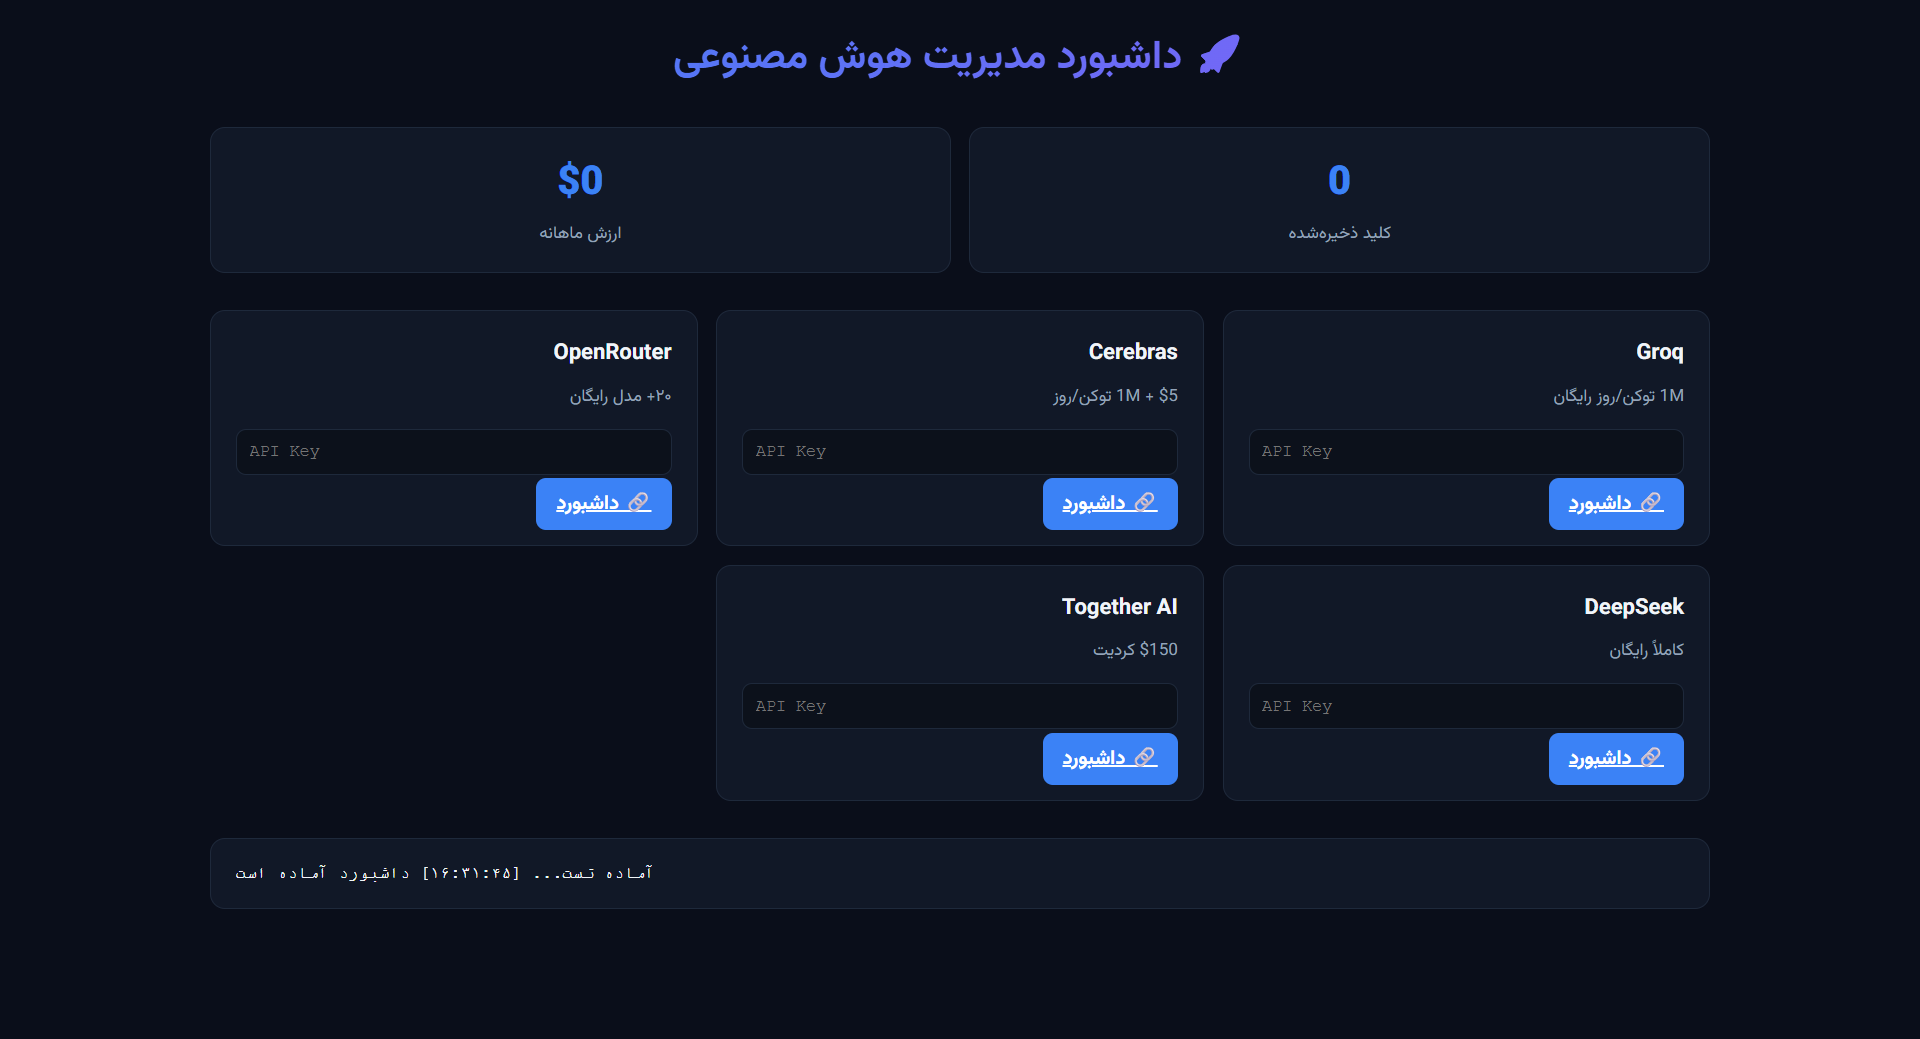
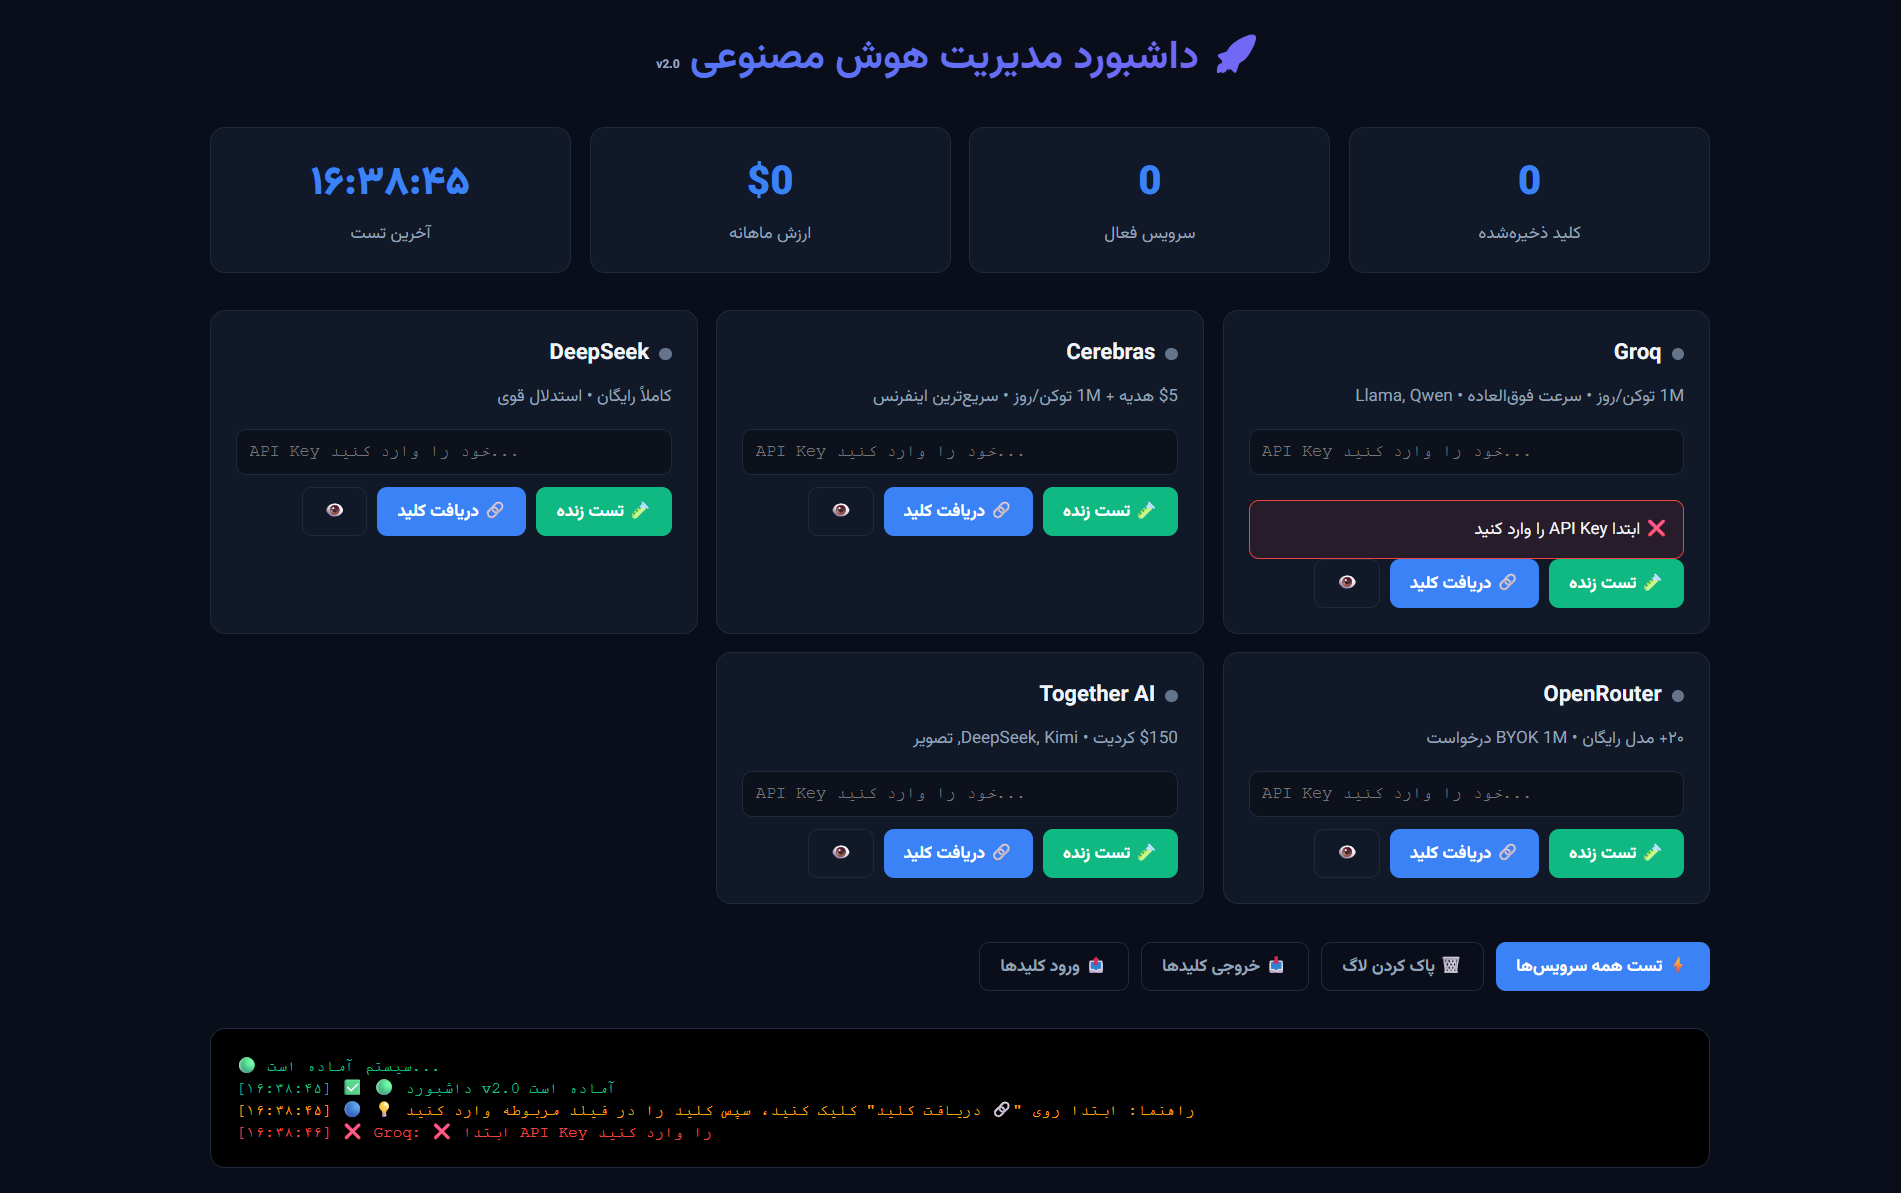
Update ai-dashboard to v2 with live API testing capability

diff --git a/ai-dashboard/dashboard.html b/ai-dashboard/dashboard.html
@@ -2,7 +2,7 @@
 <html lang="fa" dir="rtl">
 <head>
 <meta charset="UTF-8">
-<title>🚀 داشبورد AI</title>
+<title>🚀 داشبورد AI - نسخه 2</title>
 <style>
   @import url('https://fonts.googleapis.com/css2?family=Vazirmatn:wght@400;700;900&display=swap');
   * { margin: 0; padding: 0; box-sizing: border-box; }
@@ -13,19 +13,35 @@
   .stat { background: #111827; border: 1px solid #1e293b; border-radius: 12px; padding: 20px; text-align: center; }
   .stat-value { font-size: 2rem; font-weight: 900; color: #3b82f6; }
   .stat-label { color: #94a3b8; font-size: 0.85rem; margin-top: 5px; }
-  .services { display: grid; grid-template-columns: repeat(auto-fill, minmax(300px, 1fr)); gap: 15px; }
-  .service { background: #111827; border: 1px solid #1e293b; border-radius: 12px; padding: 20px; }
-  .service-name { font-weight: 700; font-size: 1.1rem; margin-bottom: 10px; }
+  .services { display: grid; grid-template-columns: repeat(auto-fill, minmax(320px, 1fr)); gap: 15px; }
+  .service { background: #111827; border: 1px solid #1e293b; border-radius: 12px; padding: 20px; position: relative; }
+  .service.active { border-color: #10b981; }
+  .service-name { font-weight: 700; font-size: 1.1rem; margin-bottom: 10px; display: flex; align-items: center; gap: 8px; }
+  .status-dot { width: 10px; height: 10px; border-radius: 50%; background: #64748b; }
+  .status-dot.active { background: #10b981; box-shadow: 0 0 8px #10b981; }
+  .status-dot.error { background: #ef4444; }
+  .status-dot.loading { background: #f59e0b; animation: pulse 1s infinite; }
+  @keyframes pulse { 0%,100% { opacity: 1; } 50% { opacity: 0.5; } }
   .service-info { color: #94a3b8; font-size: 0.85rem; margin-bottom: 15px; }
-  .key-input { width: 100%; background: rgba(0,0,0,0.3); border: 1px solid #1e293b; border-radius: 8px; padding: 10px; color: #f1f5f9; margin-bottom: 10px; font-family: monospace; direction: ltr; }
-  .btn { background: #3b82f6; color: white; border: none; padding: 8px 16px; border-radius: 8px; cursor: pointer; font-family: 'Vazirmatn'; font-weight: 600; }
+  .key-input { width: 100%; background: rgba(0,0,0,0.3); border: 1px solid #1e293b; border-radius: 8px; padding: 10px; color: #f1f5f9; margin-bottom: 10px; font-family: monospace; direction: ltr; text-align: left; }
+  .key-input:focus { outline: none; border-color: #3b82f6; }
+  .btn-row { display: flex; gap: 8px; flex-wrap: wrap; }
+  .btn { background: #3b82f6; color: white; border: none; padding: 8px 16px; border-radius: 8px; cursor: pointer; font-family: 'Vazirmatn'; font-weight: 600; font-size: 0.85rem; text-decoration: none; display: inline-flex; align-items: center; gap: 6px; }
   .btn:hover { background: #2563eb; }
-  .test-log { background: #111827; border: 1px solid #1e293b; border-radius: 12px; padding: 20px; margin-top: 30px; font-family: monospace; font-size: 0.85rem; max-height: 300px; overflow-y: auto; direction: ltr; text-align: left; }
+  .btn-success { background: #10b981; }
+  .btn-success:hover { background: #059669; }
+  .btn-outline { background: transparent; border: 1px solid #1e293b; color: #94a3b8; }
+  .btn-outline:hover { border-color: #3b82f6; color: #3b82f6; }
+  .test-log { background: #000; border: 1px solid #1e293b; border-radius: 12px; padding: 20px; margin-top: 30px; font-family: 'Courier New', monospace; font-size: 0.8rem; max-height: 400px; overflow-y: auto; direction: ltr; text-align: left; color: #10b981; }
+  .test-log .error { color: #ef4444; }
+  .test-log .info { color: #f59e0b; }
+  .test-result { background: rgba(16,185,129,0.1); border: 1px solid #10b981; border-radius: 8px; padding: 12px; margin-top: 10px; font-size: 0.85rem; }
+  .test-result.error { background: rgba(239,68,68,0.1); border-color: #ef4444; }
 </style>
 </head>
 <body>
 <div class="container">
-  <h1>🚀 داشبورد مدیریت هوش مصنوعی</h1>
+  <h1>🚀 داشبورد مدیریت هوش مصنوعی <span style="font-size: 0.6rem; color: #94a3b8; -webkit-text-fill-color: #94a3b8;">v2.0</span></h1>
   
   <div class="stats">
     <div class="stat">
@@ -33,67 +49,269 @@
       <div class="stat-label">کلید ذخیرهشده</div>
     </div>
     <div class="stat">
+      <div class="stat-value" id="totalActive">0</div>
+      <div class="stat-label">سرویس فعال</div>
+    </div>
+    <div class="stat">
       <div class="stat-value" id="totalValue">$0</div>
       <div class="stat-label">ارزش ماهانه</div>
+    </div>
+    <div class="stat">
+      <div class="stat-value" id="lastTest">-</div>
+      <div class="stat-label">آخرین تست</div>
     </div>
   </div>
 
   <div class="services" id="services"></div>
 
-  <div class="test-log" id="testLog">آماده تست...</div>
+  <div style="margin-top: 30px; display: flex; gap: 10px; flex-wrap: wrap;">
+    <button class="btn" onclick="testAll()">⚡ تست همه سرویسها</button>
+    <button class="btn btn-outline" onclick="clearLog()">🗑 پاک کردن لاگ</button>
+    <button class="btn btn-outline" onclick="exportKeys()">📥 خروجی کلیدها</button>
+    <button class="btn btn-outline" onclick="importKeys()">📤 ورود کلیدها</button>
+  </div>
+
+  <div class="test-log" id="testLog">🟢 سیستم آماده است...</div>
 </div>
 
 <script>
 const SERVICES = [
-  { id: 'groq', name: 'Groq', info: '1M توکن/روز رایگان', url: 'https://console.groq.com/keys', value: 50 },
-  { id: 'cerebras', name: 'Cerebras', info: '$5 + 1M توکن/روز', url: 'https://cloud.cerebras.ai', value: 40 },
-  { id: 'openrouter', name: 'OpenRouter', info: '۲۰+ مدل رایگان', url: 'https://openrouter.ai/keys', value: 60 },
-  { id: 'deepseek', name: 'DeepSeek', info: 'کاملاً رایگان', url: 'https://platform.deepseek.com', value: 35 },
-  { id: 'together', name: 'Together AI', info: '$150 کردیت', url: 'https://together.ai', value: 150 },
+  { 
+    id: 'groq', name: 'Groq', 
+    info: '1M توکن/روز • سرعت فوقالعاده • Llama, Qwen', 
+    url: 'https://console.groq.com/keys', 
+    testEndpoint: 'https://api.groq.com/openai/v1/chat/completions',
+    testModel: 'llama-3.3-70b-versatile',
+    value: 50 
+  },
+  { 
+    id: 'cerebras', name: 'Cerebras', 
+    info: '$5 هدیه + 1M توکن/روز • سریعترین اینفرنس', 
+    url: 'https://cloud.cerebras.ai', 
+    testEndpoint: 'https://api.cerebras.ai/v1/chat/completions',
+    testModel: 'qwen-3-coder-480b',
+    value: 40 
+  },
+  { 
+    id: 'deepseek', name: 'DeepSeek', 
+    info: 'کاملاً رایگان • استدلال قوی', 
+    url: 'https://platform.deepseek.com/api_keys', 
+    testEndpoint: 'https://api.deepseek.com/v1/chat/completions',
+    testModel: 'deepseek-chat',
+    value: 35 
+  },
+  { 
+    id: 'openrouter', name: 'OpenRouter', 
+    info: '۲۰+ مدل رایگان • BYOK 1M درخواست', 
+    url: 'https://openrouter.ai/keys', 
+    testEndpoint: 'https://openrouter.ai/api/v1/chat/completions',
+    testModel: 'deepseek/deepseek-chat:free',
+    value: 60 
+  },
+  { 
+    id: 'together', name: 'Together AI', 
+    info: '$150 کردیت • DeepSeek, Kimi, تصویر', 
+    url: 'https://api.together.xyz/settings/api-keys', 
+    testEndpoint: 'https://api.together.xyz/v1/chat/completions',
+    testModel: 'deepseek-ai/DeepSeek-V3',
+    value: 150 
+  },
 ];
 
 let keys = JSON.parse(localStorage.getItem('ai-keys') || '{}');
+let status = JSON.parse(localStorage.getItem('ai-status') || '{}');
+
+function log(msg, type = 'info') {
+  const logEl = document.getElementById('testLog');
+  const time = new Date().toLocaleTimeString('fa-IR');
+  const className = type === 'error' ? 'error' : type === 'success' ? '' : 'info';
+  const icon = type === 'error' ? '❌' : type === 'success' ? '✅' : '🔵';
+  logEl.innerHTML += `<div class="${className}">[${time}] ${icon} ${msg}</div>`;
+  logEl.scrollTop = logEl.scrollHeight;
+}
+
+function clearLog() {
+  document.getElementById('testLog').innerHTML = '';
+  log('لاگ پاک شد');
+}
 
 function render() {
   const services = document.getElementById('services');
-  services.innerHTML = SERVICES.map(s => `
-    <div class="service">
-      <div class="service-name">${s.name}</div>
-      <div class="service-info">${s.info}</div>
-      <input type="password" class="key-input" id="key-${s.id}" 
-             placeholder="API Key" value="${keys[s.id] || ''}" 
-             onchange="saveKey('${s.id}', this.value)">
-      <a href="${s.url}" target="_blank" class="btn">🔗 داشبورد</a>
-    </div>
-  `).join('');
+  services.innerHTML = SERVICES.map(s => {
+    const hasKey = keys[s.id] && keys[s.id].length > 5;
+    const serviceStatus = status[s.id];
+    const statusClass = serviceStatus === 'active' ? 'active' : 
+                        serviceStatus === 'error' ? 'error' : 
+                        serviceStatus === 'loading' ? 'loading' : '';
+    const cardClass = serviceStatus === 'active' ? 'active' : '';
+    
+    return `
+      <div class="service ${cardClass}" id="card-${s.id}">
+        <div class="service-name">
+          <span class="status-dot ${statusClass}"></span>
+          ${s.name}
+        </div>
+        <div class="service-info">${s.info}</div>
+        <input type="password" class="key-input" id="key-${s.id}" 
+               placeholder="API Key خود را وارد کنید..." 
+               value="${keys[s.id] || ''}" 
+               onchange="saveKey('${s.id}', this.value)">
+        <div id="result-${s.id}"></div>
+        <div class="btn-row">
+          <button class="btn btn-success" onclick="testService('${s.id}')">🧪 تست زنده</button>
+          <a href="${s.url}" target="_blank" class="btn">🔗 دریافت کلید</a>
+          <button class="btn btn-outline" onclick="toggleKey('${s.id}')">👁</button>
+        </div>
+      </div>
+    `;
+  }).join('');
   
   updateStats();
+}
+
+function toggleKey(id) {
+  const input = document.getElementById(`key-${id}`);
+  input.type = input.type === 'password' ? 'text' : 'password';
 }
 
 function saveKey(id, value) {
   keys[id] = value.trim();
   localStorage.setItem('ai-keys', JSON.stringify(keys));
+  status[id] = null;
+  localStorage.setItem('ai-status', JSON.stringify(status));
   updateStats();
+  log(`🔑 کلید ${SERVICES.find(s=>s.id===id).name} ذخیره شد`);
 }
 
 function updateStats() {
   const keyCount = Object.values(keys).filter(k => k && k.length > 5).length;
+  const activeCount = Object.values(status).filter(s => s === 'active').length;
   const totalValue = SERVICES.filter(s => keys[s.id]?.length > 5)
                              .reduce((sum, s) => sum + s.value, 0);
   
   document.getElementById('totalKeys').textContent = keyCount;
+  document.getElementById('totalActive').textContent = activeCount;
   document.getElementById('totalValue').textContent = '$' + totalValue;
+  document.getElementById('lastTest').textContent = new Date().toLocaleTimeString('fa-IR');
 }
 
-function log(msg) {
-  const logEl = document.getElementById('testLog');
-  const time = new Date().toLocaleTimeString('fa-IR');
-  logEl.textContent += `\n[${time}] ${msg}`;
-  logEl.scrollTop = logEl.scrollHeight;
+async function testService(id) {
+  const service = SERVICES.find(s => s.id === id);
+  const key = keys[id];
+  
+  if (!key || key.length < 5) {
+    log(`${service.name}: ❌ ابتدا API Key را وارد کنید`, 'error');
+    showResult(id, '❌ ابتدا API Key را وارد کنید', true);
+    return;
+  }
+  
+  status[id] = 'loading';
+  localStorage.setItem('ai-status', JSON.stringify(status));
+  render();
+  
+  log(`🔄 تست ${service.name} شروع شد...`);
+  const startTime = Date.now();
+  
+  try {
+    const response = await fetch(service.testEndpoint, {
+      method: 'POST',
+      headers: {
+        'Authorization': `Bearer ${key}`,
+        'Content-Type': 'application/json',
+      },
+      body: JSON.stringify({
+        model: service.testModel,
+        messages: [{ role: 'user', content: 'پاسخ کوتاه: سلام در ۳ کلمه' }],
+        max_tokens: 50,
+      })
+    });
+    
+    const latency = Date.now() - startTime;
+    
+    if (response.ok) {
+      const data = await response.json();
+      const reply = data.choices?.[0]?.message?.content || 'پاسخ دریافت شد';
+      status[id] = 'active';
+      log(`${service.name}: ✅ موفق! (${latency}ms) → "${reply.substring(0, 60)}"`, 'success');
+      showResult(id, `✅ اتصال موفق • ${latency}ms • "${reply.substring(0, 50)}"`, false);
+    } else {
+      const errorText = await response.text();
+      status[id] = 'error';
+      log(`${service.name}: ❌ خطا ${response.status} - ${errorText.substring(0, 100)}`, 'error');
+      showResult(id, `❌ خطا ${response.status}: ${errorText.substring(0, 80)}`, true);
+    }
+  } catch (error) {
+    status[id] = 'error';
+    log(`${service.name}: ❌ خطای شبکه - ${error.message}`, 'error');
+    showResult(id, `❌ خطای شبکه: ${error.message}`, true);
+  }
+  
+  localStorage.setItem('ai-status', JSON.stringify(status));
+  render();
+}
+
+function showResult(id, message, isError) {
+  const resultEl = document.getElementById(`result-${id}`);
+  resultEl.innerHTML = `<div class="test-result ${isError ? 'error' : ''}">${message}</div>`;
+}
+
+async function testAll() {
+  log('═══════════════════════════════════════');
+  log('🚀 شروع تست همه سرویسها');
+  log('═══════════════════════════════════════');
+  
+  for (const service of SERVICES) {
+    if (keys[service.id] && keys[service.id].length > 5) {
+      await testService(service.id);
+      await new Promise(r => setTimeout(r, 500));
+    } else {
+      log(`${service.name}: ⏸ کلید وارد نشده - رد شد`, 'info');
+    }
+  }
+  
+  log('═══════════════════════════════════════');
+  log('🏁 تست کامل شد', 'success');
+}
+
+function exportKeys() {
+  const data = { version: '2.0', keys, status, exported: new Date().toISOString() };
+  const blob = new Blob([JSON.stringify(data, null, 2)], { type: 'application/json' });
+  const url = URL.createObjectURL(blob);
+  const a = document.createElement('a');
+  a.href = url;
+  a.download = `ai-keys-${Date.now()}.json`;
+  a.click();
+  log('📥 کلیدها دانلود شدند', 'success');
+}
+
+function importKeys() {
+  const input = document.createElement('input');
+  input.type = 'file';
+  input.accept = '.json';
+  input.onchange = (e) => {
+    const file = e.target.files[0];
+    const reader = new FileReader();
+    reader.onload = (event) => {
+      try {
+        const data = JSON.parse(event.target.result);
+        keys = data.keys || keys;
+        status = data.status || status;
+        localStorage.setItem('ai-keys', JSON.stringify(keys));
+        localStorage.setItem('ai-status', JSON.stringify(status));
+        render();
+        log('📤 کلیدها وارد شدند', 'success');
+      } catch (err) {
+        log('❌ فایل نامعتبر است', 'error');
+      }
+    };
+    reader.readAsText(file);
+  };
+  input.click();
 }
 
 render();
-log('داشبورد آماده است');
+log('🟢 داشبورد v2.0 آماده است', 'success');
+log('💡 راهنما: ابتدا روی "🔗 دریافت کلید" کلیک کنید، سپس کلید را در فیلد مربوطه وارد کنید', 'info');
 </script>
 </body>
 </html>
